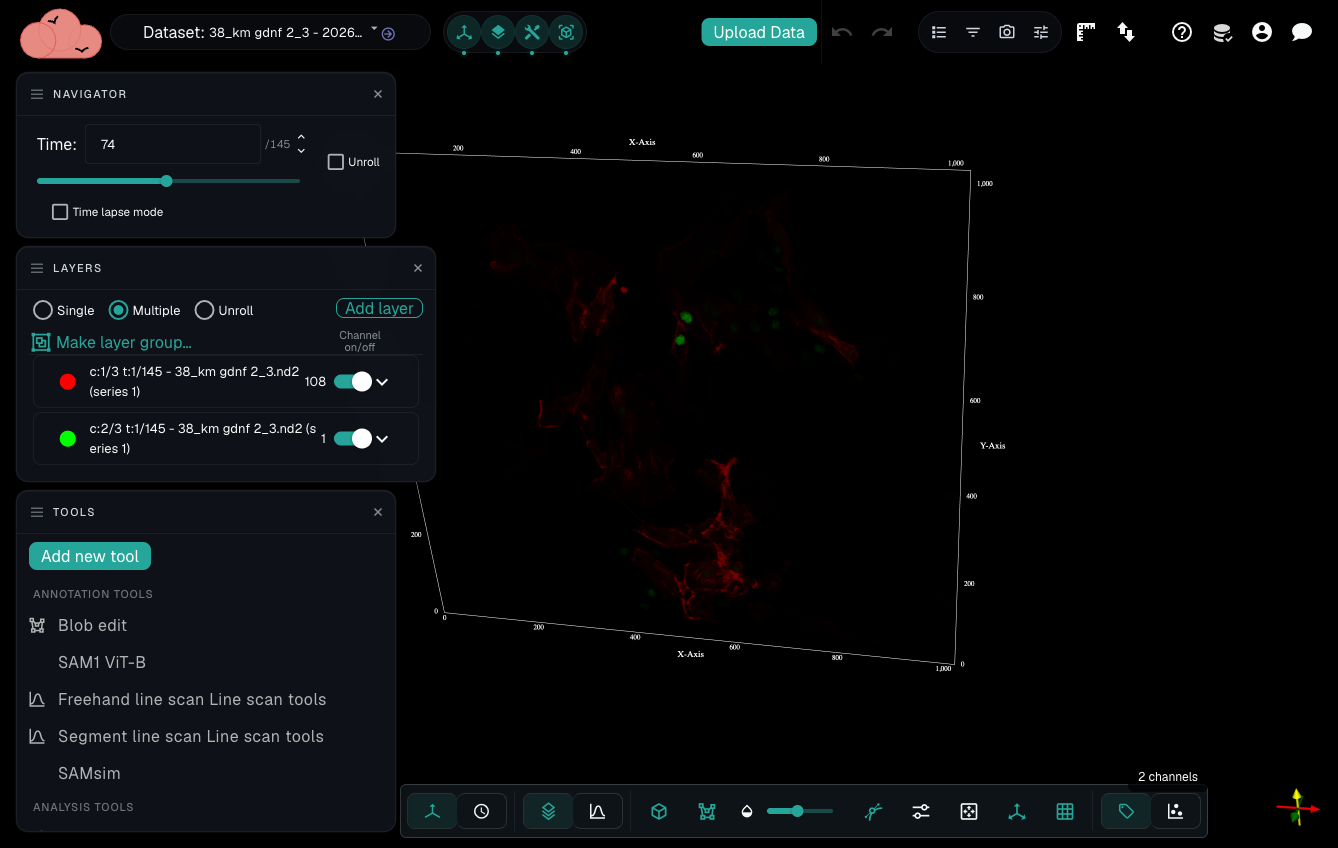
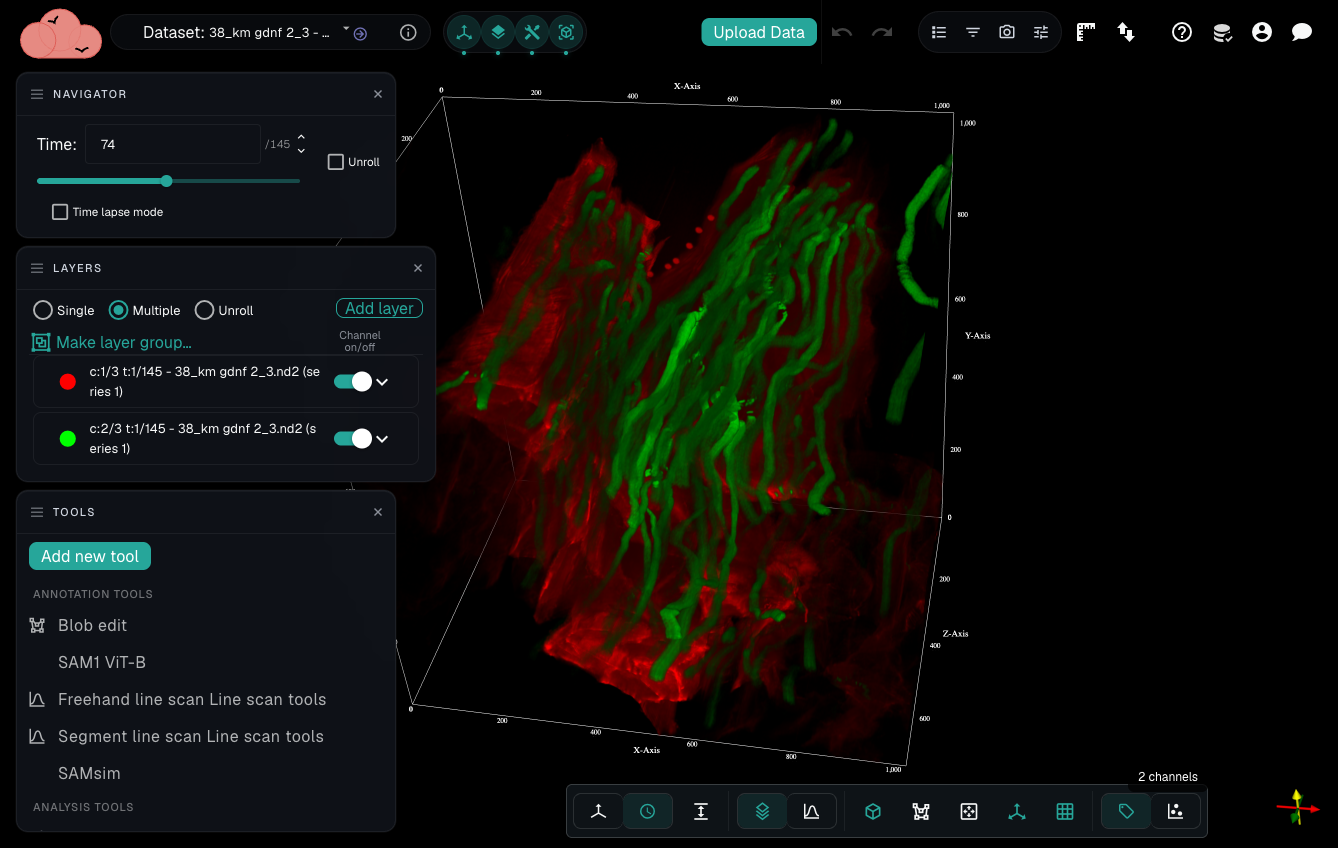
Use Time-as-depth 3D view for the volume-visualization screenshot
Replaces the faint Z-mode 3D screenshot with a Time-as-depth-axis
render of the same time-lapse dataset, where nuclei trace out
"worldlines" through the volume — a far clearer demonstration of the
3D feature (per the dataset's shallow Z-extent, Time is the meaningful
depth axis here). Caption updated to explain the worldlines view.

diff --git a/documentation/viewing-your-data.md b/documentation/viewing-your-data.md
@@ -50,7 +50,7 @@ This feature is especially useful if you work with the same types of channels re
 
 In addition to the standard 2D viewer, NimbusImage can render your dataset as an interactive 3D volume directly in your browser. This is useful for exploring Z-stacks and for viewing time lapses as volumes. Toggle between the 2D and 3D views using the control in the top app bar.
 
-<figure><img src="../.gitbook/assets/3d-volume-visualization.png" alt=""><figcaption><p>The 3D volume view, with the scaled bounding box and orientation controls along the bottom</p></figcaption></figure>
+<figure><img src="../.gitbook/assets/3d-volume-visualization.png" alt=""><figcaption><p>A time lapse rendered in 3D with Time mapped to the depth axis: each green streak is a nucleus tracing its path (a "worldline") over time. The scaled bounding box and 3D controls run along the edges.</p></figcaption></figure>
 
 ### Volume rendering
 